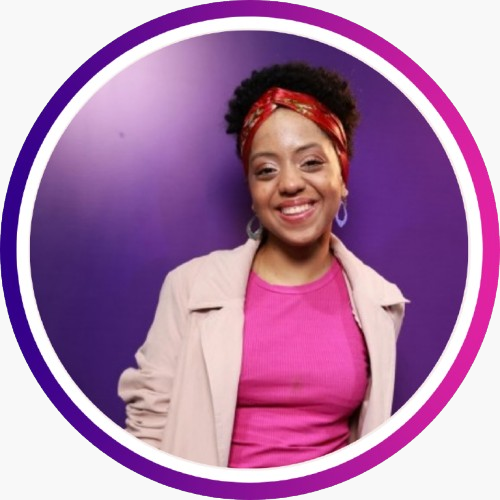
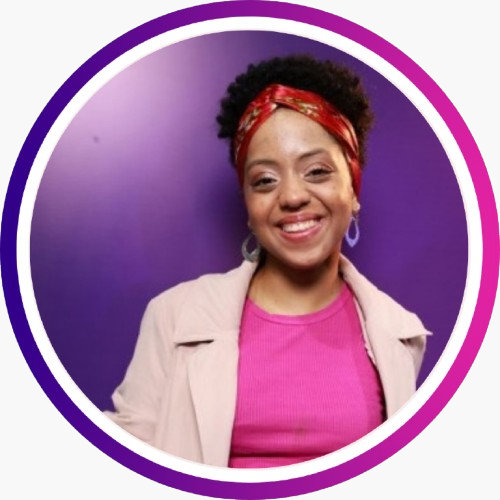
feat(social-section): atualiza rótulo e valor do formulário de contato

Changed region(s): [[0.21, 0.09, 0.87, 0.96], [0.06, 0.3, 0.21, 0.51]]

diff --git a/src/app/components/SocialSection.jsx b/src/app/components/SocialSection.jsx
@@ -25,8 +25,8 @@ const links = [
     href: 'mailto:larissa.alves.souza@outlook.com'
   },
   {
-    label: 'Formulário de contato',
-    value: 'Fale comigo',
+    label: 'Fale comigo',
+    value: 'Vamos construir algo incrível juntos?',
     href: 'https://forms.gle/XwR1H4HrFyQ4HgHq7'
   }
 ]
